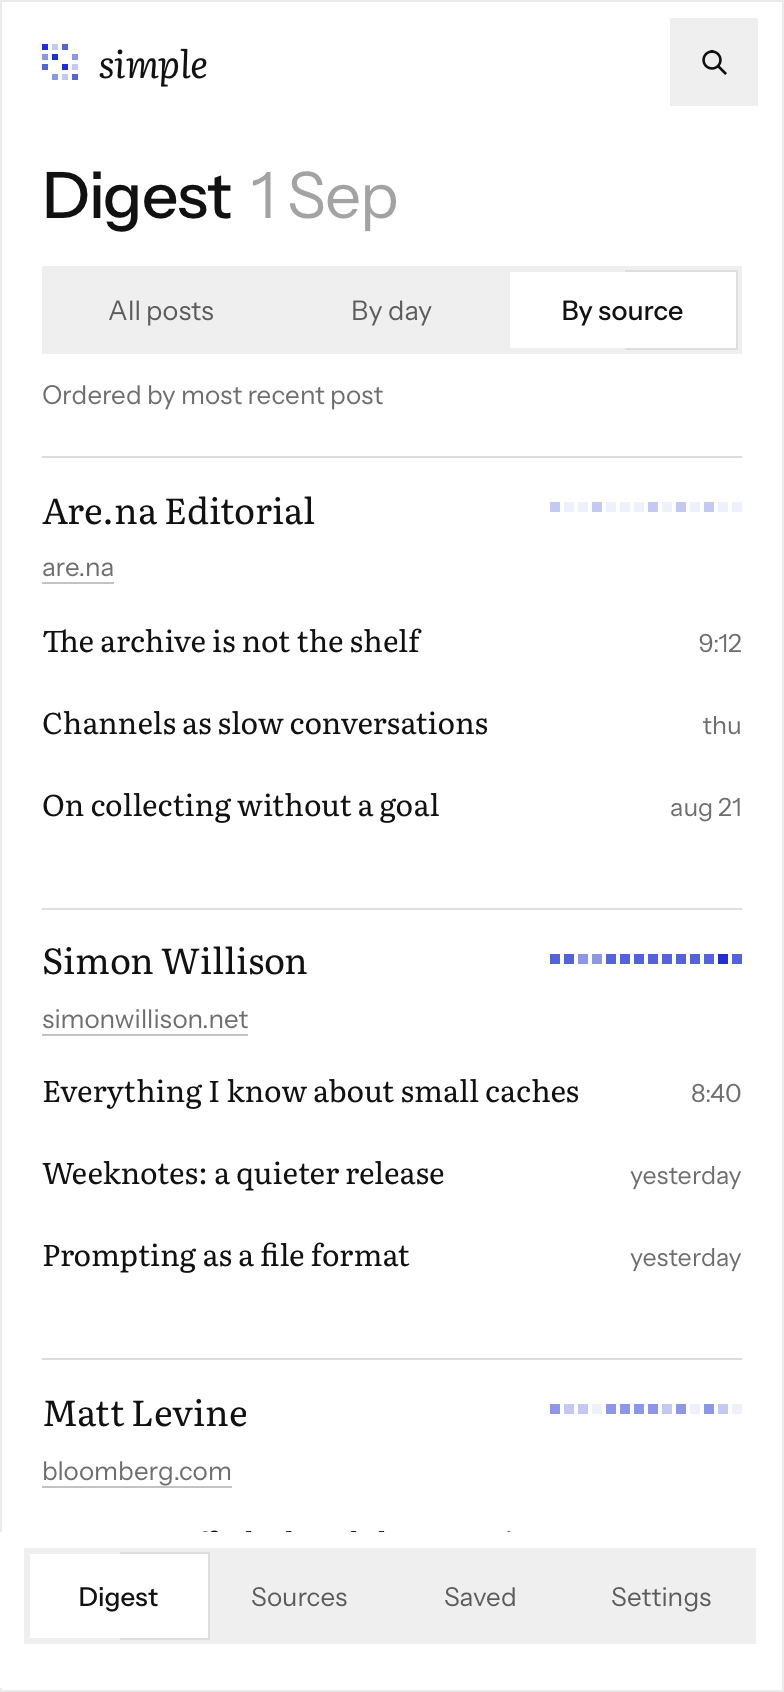
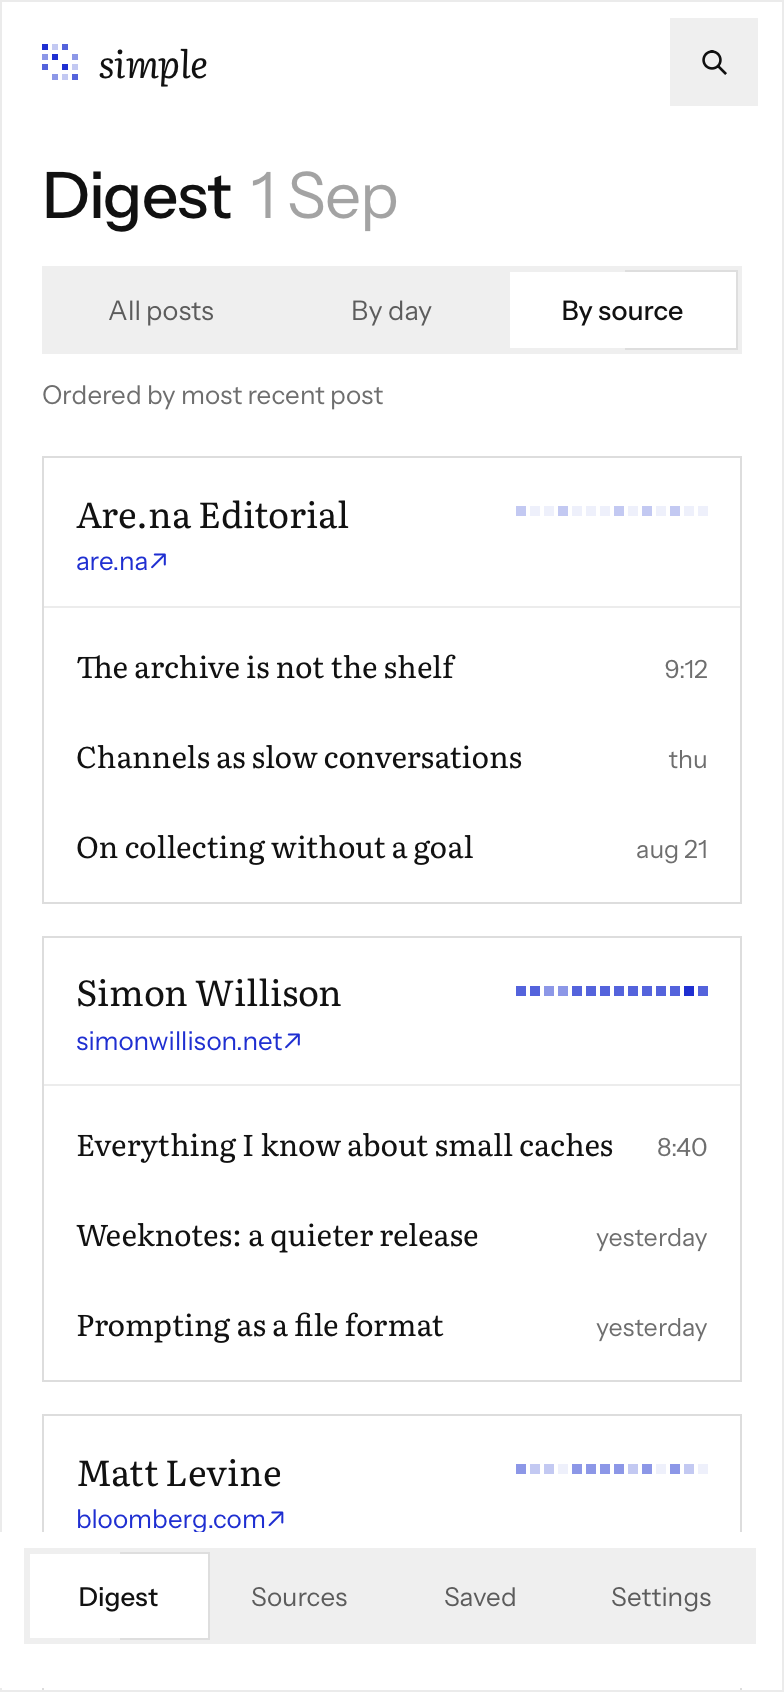
feat(ui): draw each Feed as a thin-edged box with its host as a ↗ button
The Feeds list, search's matching Feeds and the Digest's By feed cards
now hold each Feed in a box like an item's; By feed rules its head off
from its newest items. The redrawn screens replace 03 and 05 in
docs/design/v2.

diff --git a/src/client/styles.css b/src/client/styles.css
@@ -881,18 +881,24 @@
     font-variant-numeric: tabular-nums;
   }
 
+  /* A Feed is a thin-edged box, like an item: its name and Cadence, then its host. */
+
   .feed-rows {
     display: grid;
     grid-template-columns: repeat(2, minmax(0, 1fr));
-    column-gap: 48px;
+    gap: 8px;
+  }
+
+  .panel .feed-rows {
+    margin-top: 14px;
   }
 
   .feed-row {
     display: grid;
     align-content: start;
-    gap: 6px;
-    padding: 18px 0 16px;
-    border-bottom: 1px solid var(--color-rule-soft);
+    gap: 10px;
+    padding: 18px 16px 16px;
+    border: 1px solid var(--color-edge);
   }
 
   .feed-row-head {
@@ -919,10 +925,20 @@
     text-underline-offset: 3px;
   }
 
-  .feed-row-domain {
+  /* The host is a button out to the publisher; plain grey text when there is no site. */
+  :is(.feed-row-domain, .feed-card-domain) {
     justify-self: start;
+    max-width: 100%;
+  }
+
+  :is(.feed-row-domain, .feed-card-domain):not(.button) {
     font-size: 13px;
     color: var(--color-ink-2);
+  }
+
+  :is(.feed-row-domain, .feed-card-domain) .icon {
+    width: 14px;
+    height: 14px;
   }
 
   .feed-row-note {
@@ -930,7 +946,7 @@
     align-items: center;
     justify-content: space-between;
     gap: 16px;
-    margin: 6px 0 0;
+    margin: 0;
   }
 
   .more-names {
@@ -1345,18 +1361,20 @@
       0 0 0 2px var(--color-ink);
   }
 
+  /* By feed: a box per Feed, its head ruled off from its newest items. */
+
   .feed-cards {
     display: grid;
     grid-template-columns: repeat(3, minmax(0, 1fr));
-    gap: 56px 48px;
+    gap: 40px 24px;
   }
 
   .feed-card {
     display: grid;
     align-content: start;
-    gap: 6px;
-    padding-top: 24px;
-    border-top: 1px solid var(--color-rule);
+    gap: 10px;
+    padding: 20px 20px 12px;
+    border: 1px solid var(--color-edge);
   }
 
   .feed-card-head {
@@ -1382,19 +1400,16 @@
     overflow-wrap: break-word;
   }
 
-  .feed-card-domain {
-    justify-self: start;
-    font-size: 13px;
-    color: var(--color-ink-2);
-  }
-
   .feed-card > .note {
-    margin-top: 16px;
+    margin: 6px -20px 0;
+    padding: 18px 20px 8px;
+    border-top: 1px solid var(--color-rule-soft);
   }
 
   .feed-card-items {
-    margin: 16px 0 0;
-    padding: 0;
+    margin: 6px -20px 0;
+    padding: 6px 20px 0;
+    border-top: 1px solid var(--color-rule-soft);
     list-style: none;
   }
 
@@ -1971,7 +1986,7 @@
 
   .feed-cards {
     grid-template-columns: minmax(0, 1fr);
-    gap: 40px;
+    gap: 12px;
   }
 
   /* One Feed: identity, then the actions as one row, the panels stacked. */

diff --git a/src/client/components/home-page-link.tsx b/src/client/components/home-page-link.tsx
@@ -1,21 +1,27 @@
+import { Icon } from './icon.js'
+
 export interface HomePageLinkProps {
   readonly className?: string
   readonly domain: string
   /** Null when the Feed has not been retrieved yet, or declares no site of its own. */
   readonly homePageUrl: string | null
+  /** Drawn as a small button marked ↗ rather than an underlined link, where the Feed is a box. */
+  readonly button?: boolean
 }
 
 /** The Feed Home Page's host, as the way out to the publisher; plain text when there is none. */
-export function HomePageLink({ className, domain, homePageUrl }: HomePageLinkProps) {
+export function HomePageLink({ className, domain, homePageUrl, button = false }: HomePageLinkProps) {
   if (!homePageUrl) return <span className={className}>{domain}</span>
+  const look = button ? 'button button-small' : 'link'
   return (
     <a
-      className={className ? `link ${className}` : 'link'}
+      className={className ? `${look} ${className}` : look}
       href={homePageUrl}
       target="_blank"
       rel="noopener noreferrer"
     >
       {domain}
+      {button ? <Icon name="external" /> : null}
     </a>
   )
 }

diff --git a/src/client/views/digest-by-feed.tsx b/src/client/views/digest-by-feed.tsx
@@ -36,7 +36,7 @@ export function DigestByFeed({ onOpenItem, onOpenFeed }: DigestByFeedProps) {
             </h2>
             <CadenceStrip counts={feed.cadence} title={feed.title} />
           </div>
-          <HomePageLink className="feed-card-domain" domain={feed.domain} homePageUrl={feed.homePageUrl} />
+          <HomePageLink className="feed-card-domain" domain={feed.domain} homePageUrl={feed.homePageUrl} button />
           {feed.items.length === 0 ? (
             <p className="note">Nothing retained yet.</p>
           ) : (

diff --git a/src/client/views/feeds-view.tsx b/src/client/views/feeds-view.tsx
@@ -291,6 +291,7 @@ function FeedRows({
             className="feed-row-domain"
             domain={subscription.domain}
             homePageUrl={subscription.homePageUrl}
+            button
           />
           <Availability
             subscription={subscription}

diff --git a/src/client/views/search-results-view.tsx b/src/client/views/search-results-view.tsx
@@ -214,6 +214,7 @@ function MatchingFeeds({
                 className="feed-row-domain"
                 domain={subscription.domain}
                 homePageUrl={subscription.homePageUrl}
+                button
               />
             </article>
           ))}

diff --git a/docs/DESIGN.md b/docs/DESIGN.md
@@ -16,7 +16,8 @@ comes from Base UI (ADR 0008); why this system replaced the first one is ADR
    primary action on a screen. Counts and status are plain grey text with no
    box. The only text that acts on its own is a link, and links are underlined.
 3. **Hierarchy from size and weight.** No cards, shadows, tinted bars or
-   coloured headers. Hairlines separate groups; thin-edged boxes hold items.
+   coloured headers. Hairlines separate groups; thin-edged boxes hold items and
+   Feeds.
 4. **Say what happens.** Labels are sentence case and name the result: Add
    feed, Export OPML, Show 16 more, Retry, Unsubscribe.
 5. **Type split by job.** Literata for what you read, Instrument Sans for what
@@ -163,9 +164,10 @@ the save square is always visible at 44px. The whole box opens the Reader; the
 Feed name inside it opens the Feed. In search results a snippet sits under the
 title with the matched words marked in `match`.
 
-**Feed row.** Feed name in Literata 19, its Feed Home Page host under it as an
-underlined link in meta, and a Cadence strip on the right. Rows are two
-columns on desktop with `rule-soft` between them, one on a phone.
+**Feed row.** A thin-edged box: Feed name in Literata 19 with a Cadence strip
+on the right, and under it the Feed Home Page host as a small button marked ↗ —
+plain meta text when the Feed names no site. Rows are two columns on desktop
+with 8px between them, one on a phone.
 
 **Label and value rows.** Label left in `ink-2`, value right in ink, 40px
 minimum height, `rule-soft` between. Used for a Feed's Info and Settings panels
@@ -203,9 +205,9 @@ on show ringed, and its facts beside it — the day, its items and Feeds, the 26
 weeks' items and busiest weekday — over the day's items; previous, Today and
 next step through days, never past today, and the Feeds that day narrow the
 list when ticked, as in search. By feed is a card per Subscription, the most
-recently published first: its name, the last 14 days of Cadence, its host, and
-its three newest items, each dated as briefly as the distance allows — 09:12,
-Yesterday, Thu, 21 Aug. On a phone the switch spans the page, the Rhythms
+recently published first: a Feed row with the last 14 days of Cadence, then
+under a `rule-soft` line its three newest items, each dated as briefly as the
+distance allows — 09:12, Yesterday, Thu, 21 Aug. On a phone the switch spans the page, the Rhythms
 scroll as chips, the day list and the facts give way, the stepper names the
 day, and the cards stack.
 
